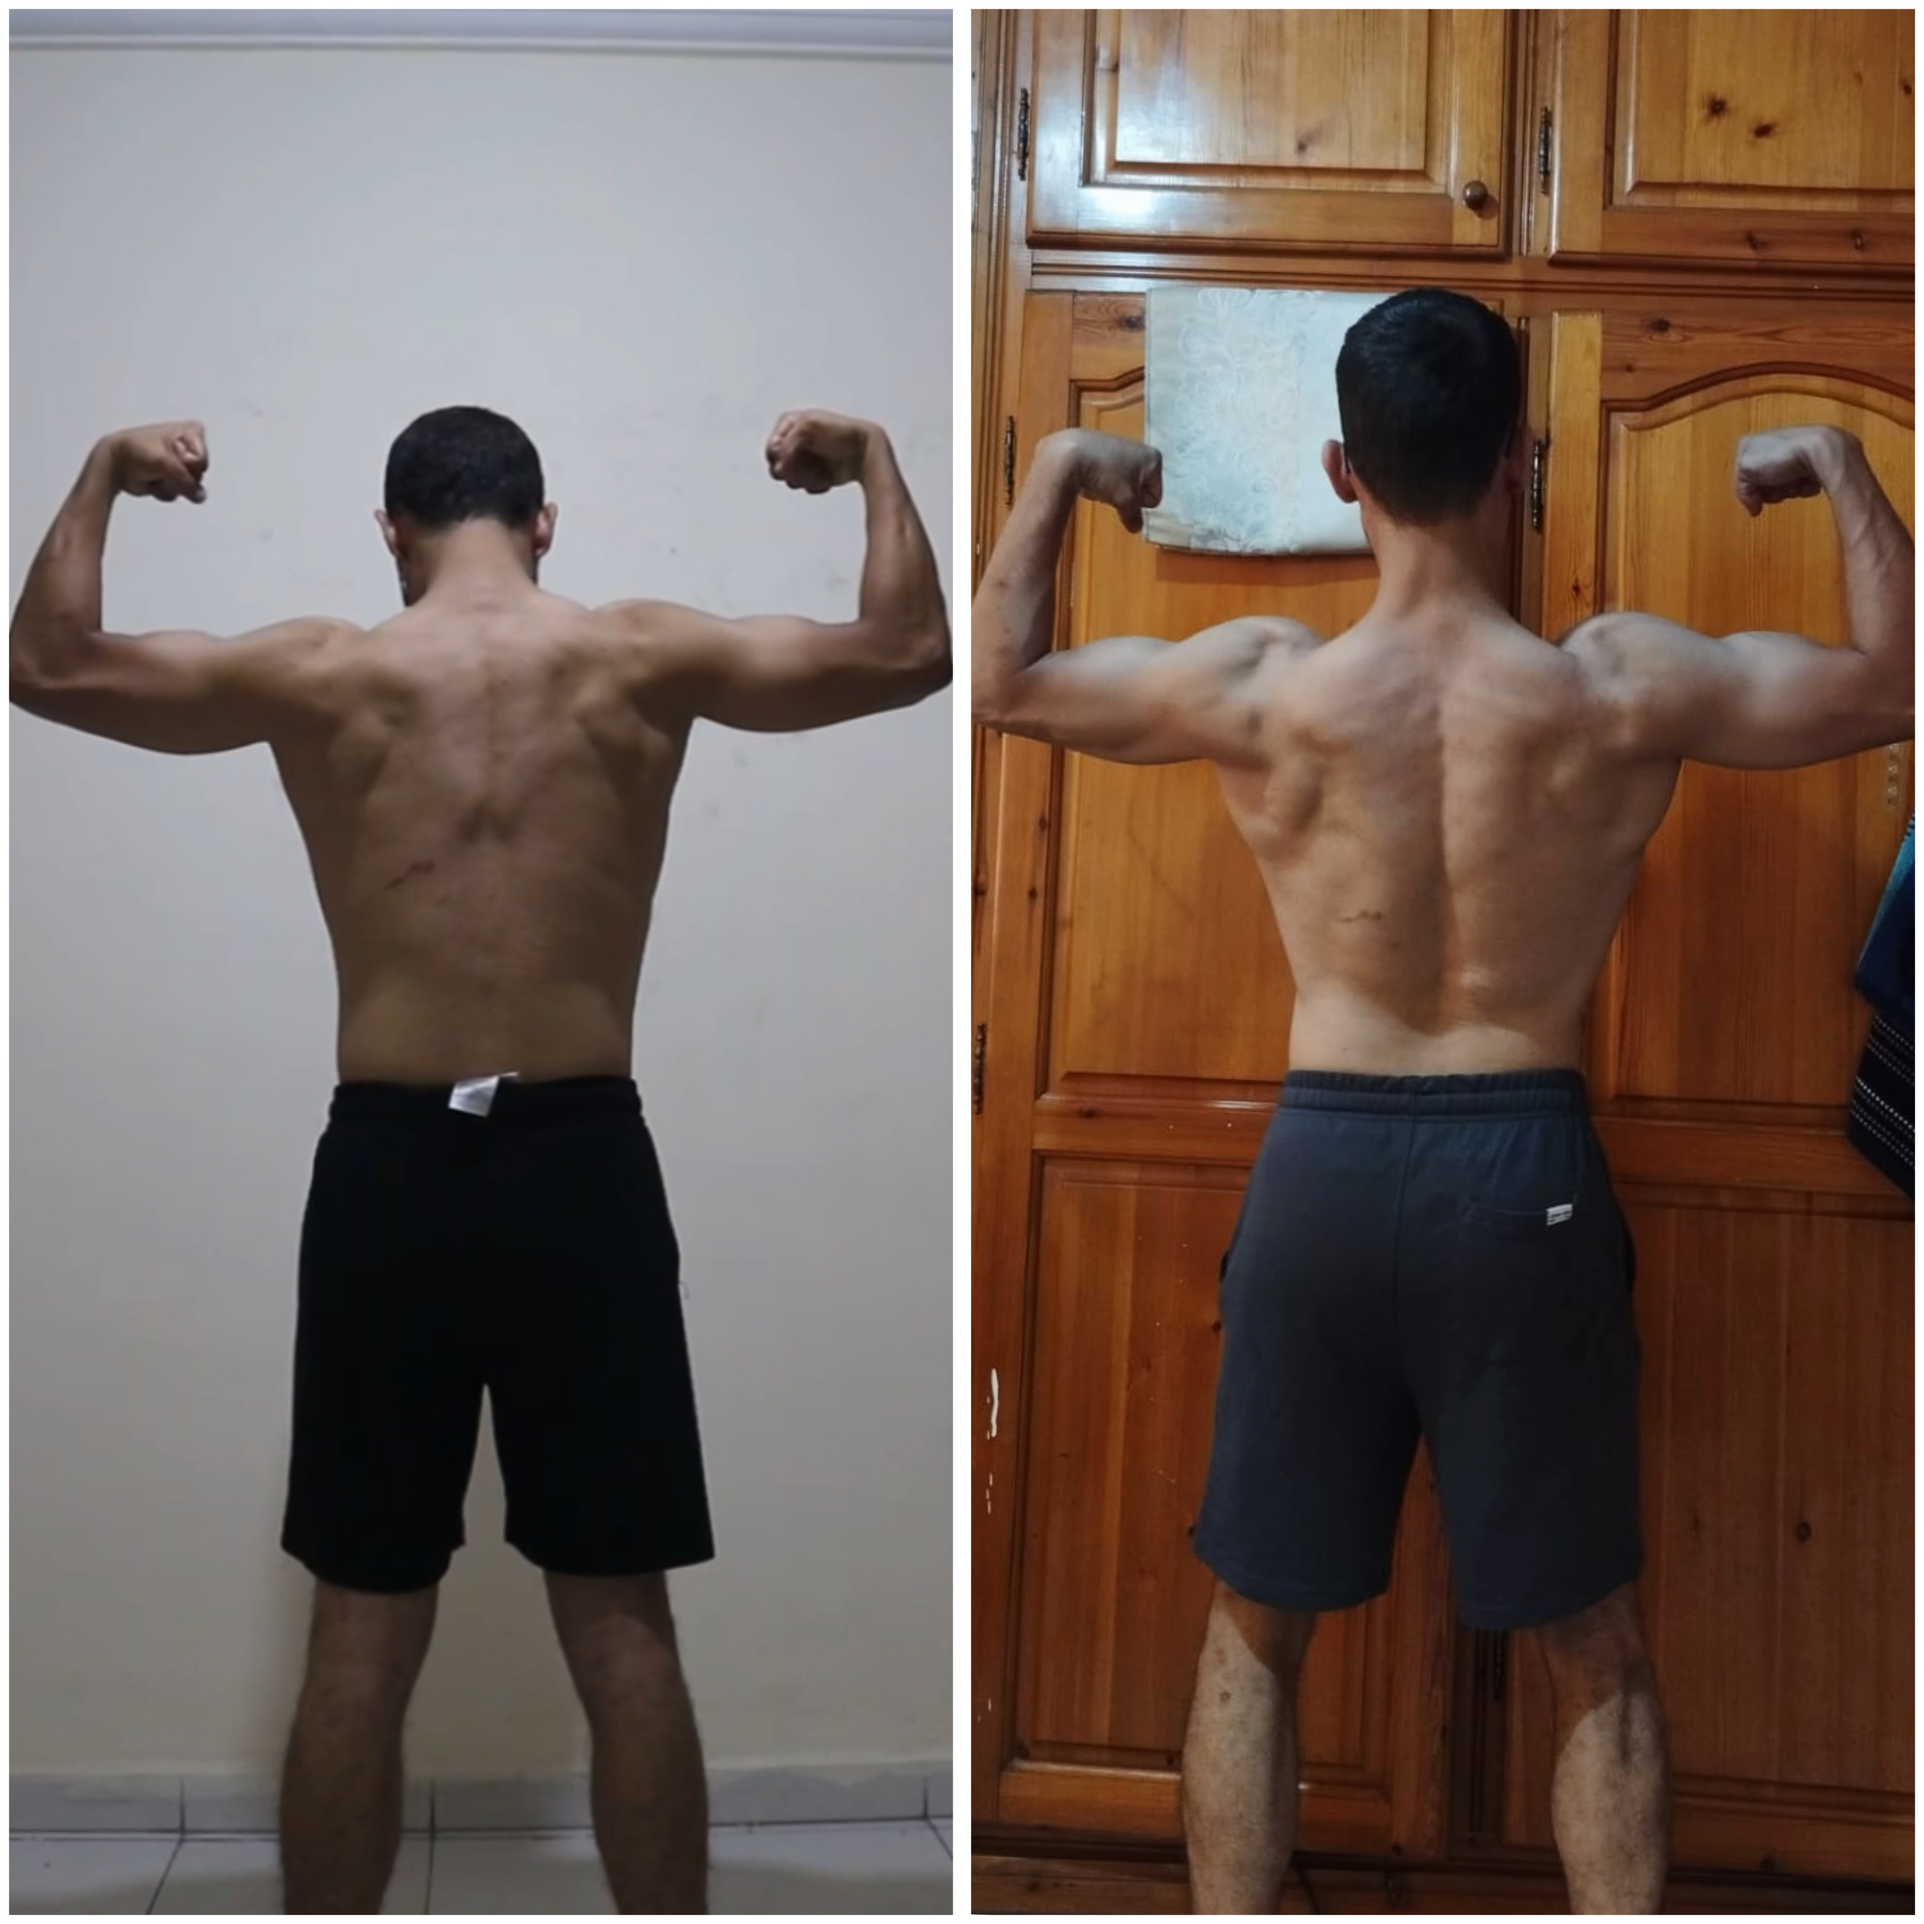
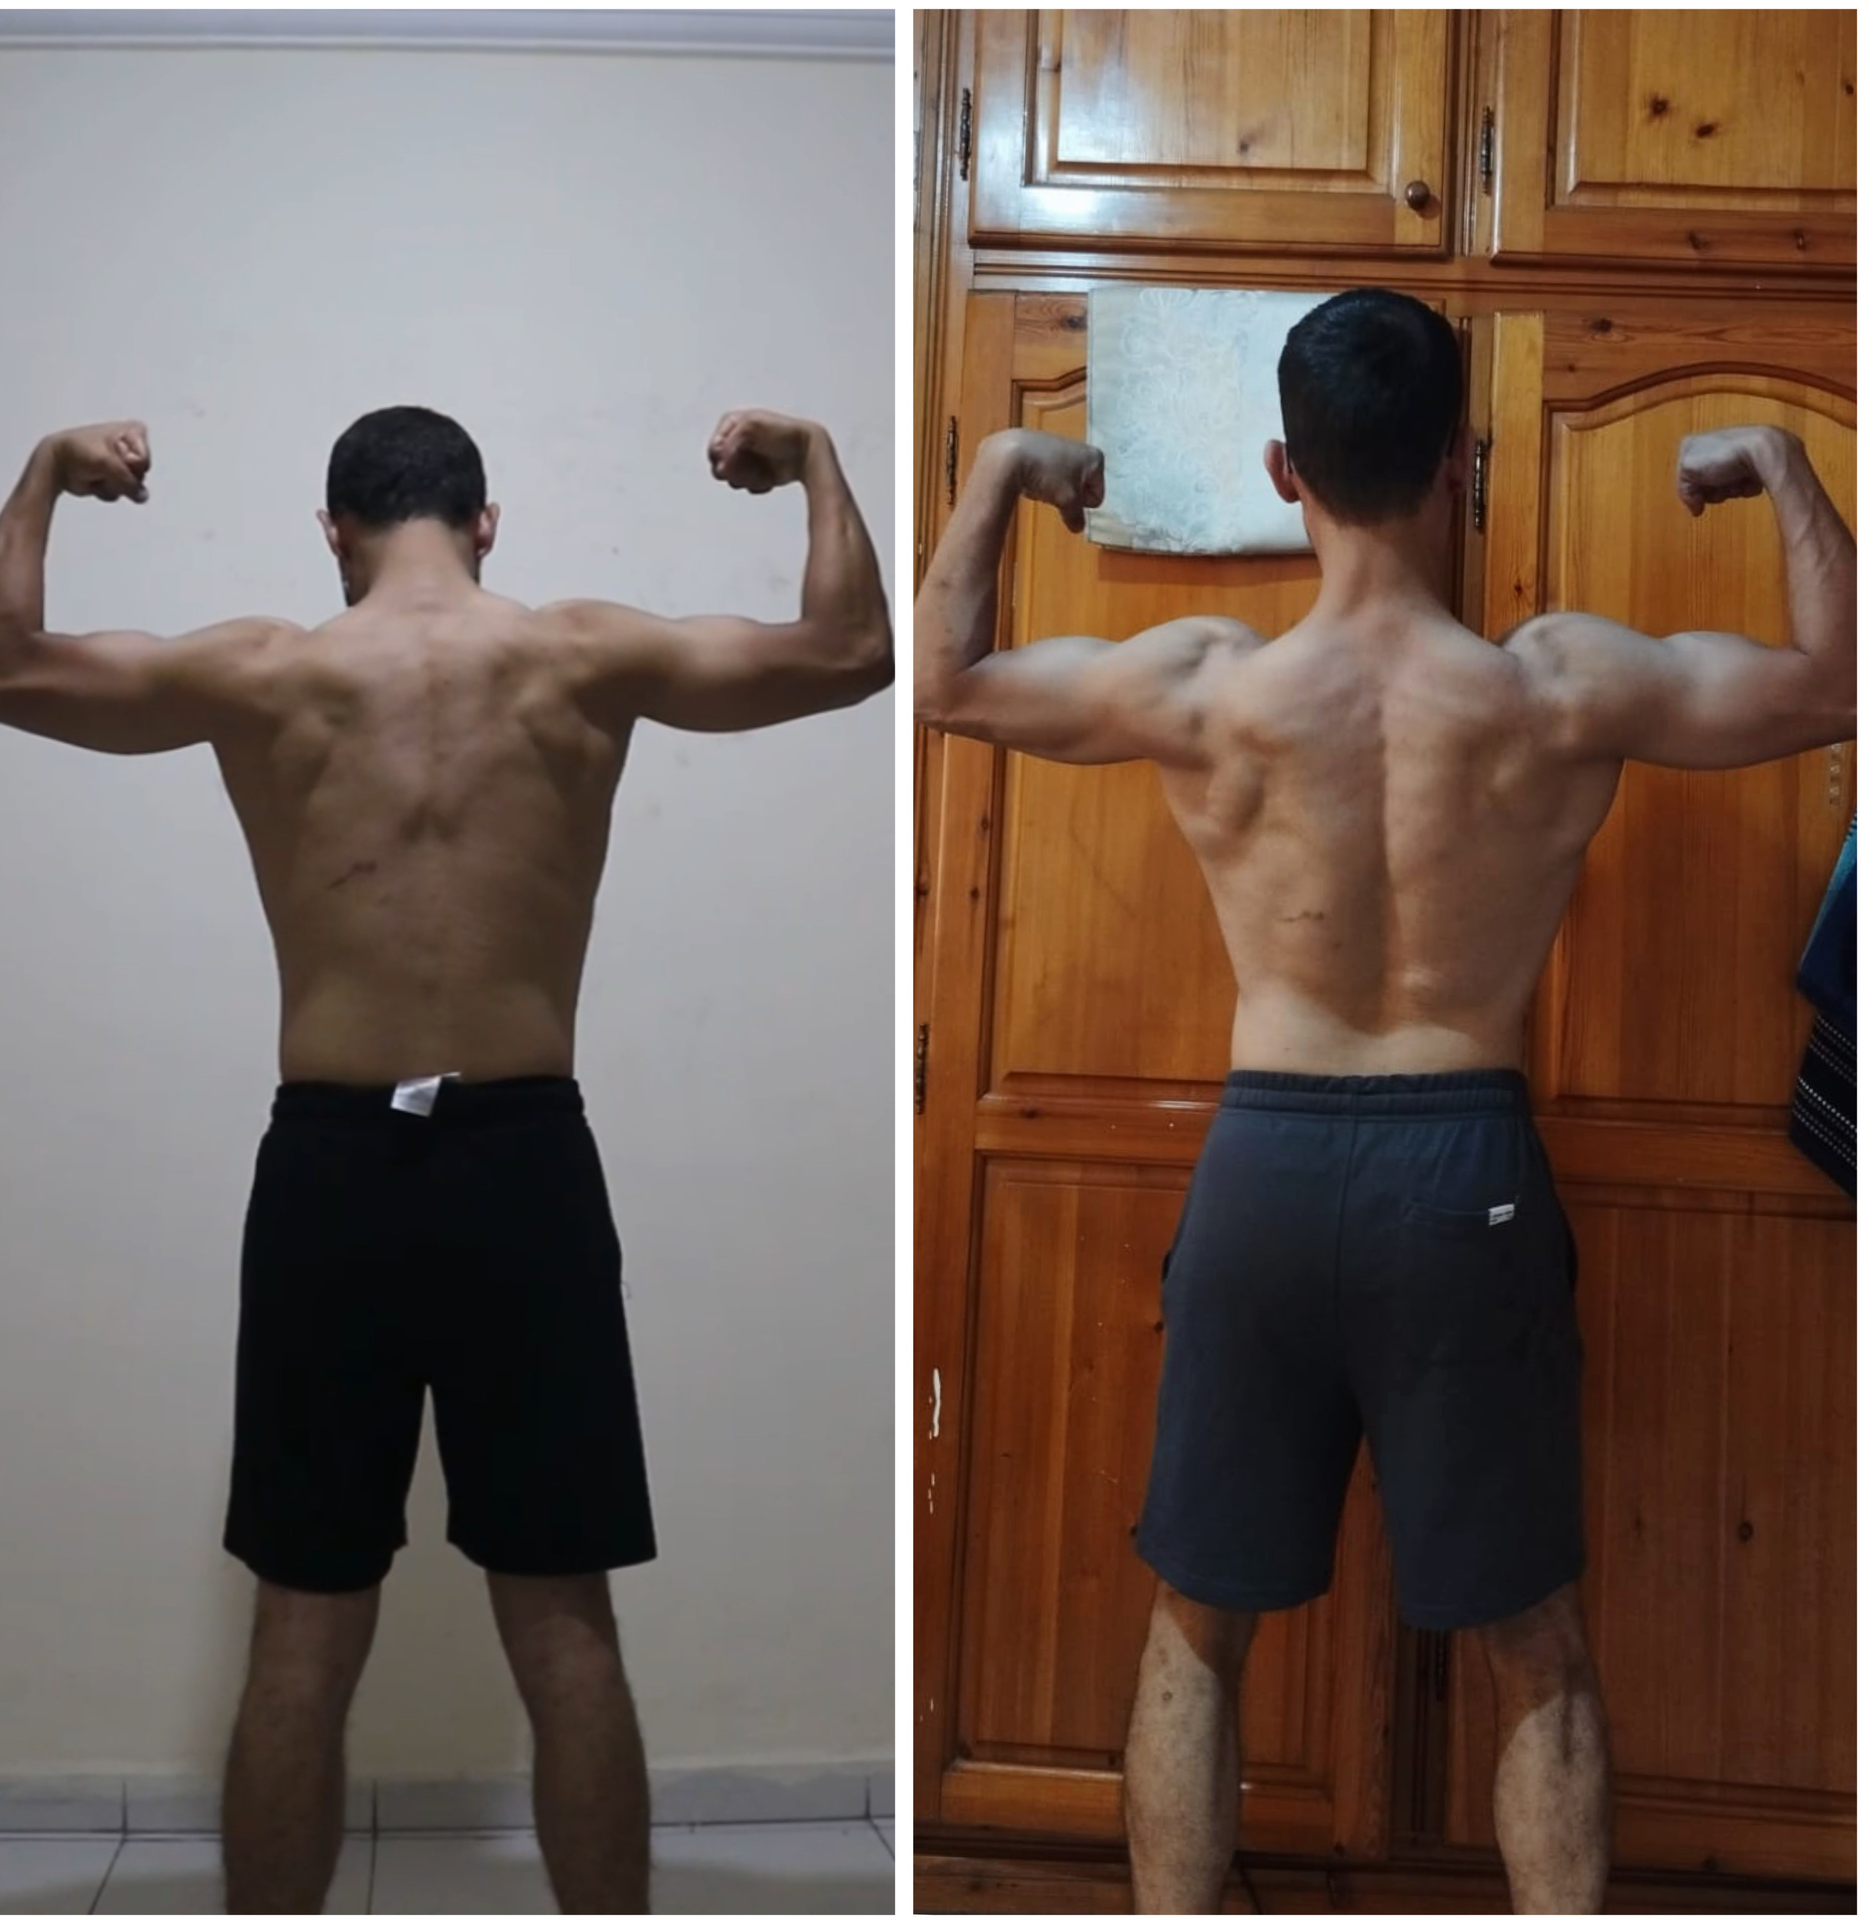
img

diff --git a/gallery.html b/gallery.html
@@ -203,7 +203,7 @@
                                                     <li><a href="about.html">About</a></li>
                                                     <li><a href="programmes.html">Courses</a></li>
                                                     
-                                                    <li><a href="gallery.html">Gallery</a></li>
+                                                    <li><a href="gallery.html">Transformations</a></li>
                                                     <li><a href="contact.html">Contact</a></li>
                                                 </ul>
                                             </nav>
